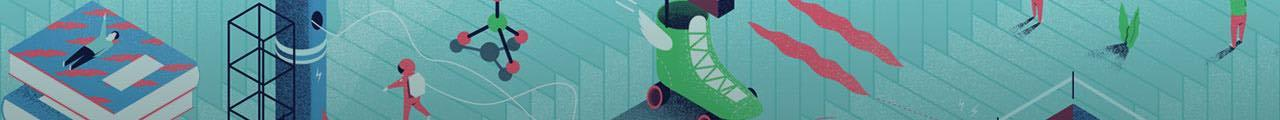
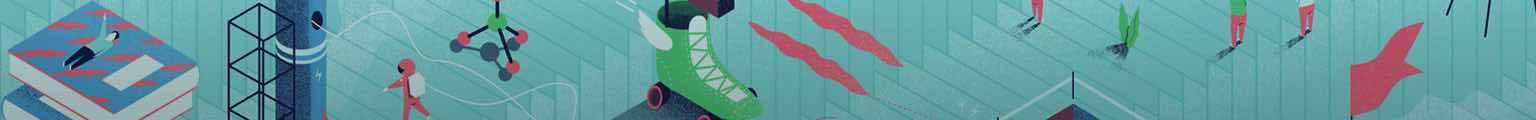
Update header images

diff --git a/src/components/header/_header.scss b/src/components/header/_header.scss
@@ -6,13 +6,18 @@ $includeHtml: false !default;
 @if ($includeHtml) {
 
   .mint-header {
-    @include image2x($mintImagesPath + 'header_background_wide@2x.jpg', auto, $headerHeight);
+    @include image2x($mintImagesPath + 'header_background@2x.jpg', auto, $headerHeight);
     width: 100%;
     height: $headerHeight;
-    background-image: url($mintImagesPath + 'header_background_wide.jpg');
+    background-image: url($mintImagesPath + 'header_background.jpg');
     background-repeat: repeat-x;
     background-color: $headerDominantColor;
     margin-bottom: rhythm(3) - $headerHeight;
+
+    @include mintBreakpoint(medium-up) {
+      @include image2x($mintImagesPath + 'header_background_wide@2x.jpg', auto, $headerHeight);
+      background-image: url($mintImagesPath + 'header_background_wide.jpg');
+    }
 
     &__container {
       display: flex;
